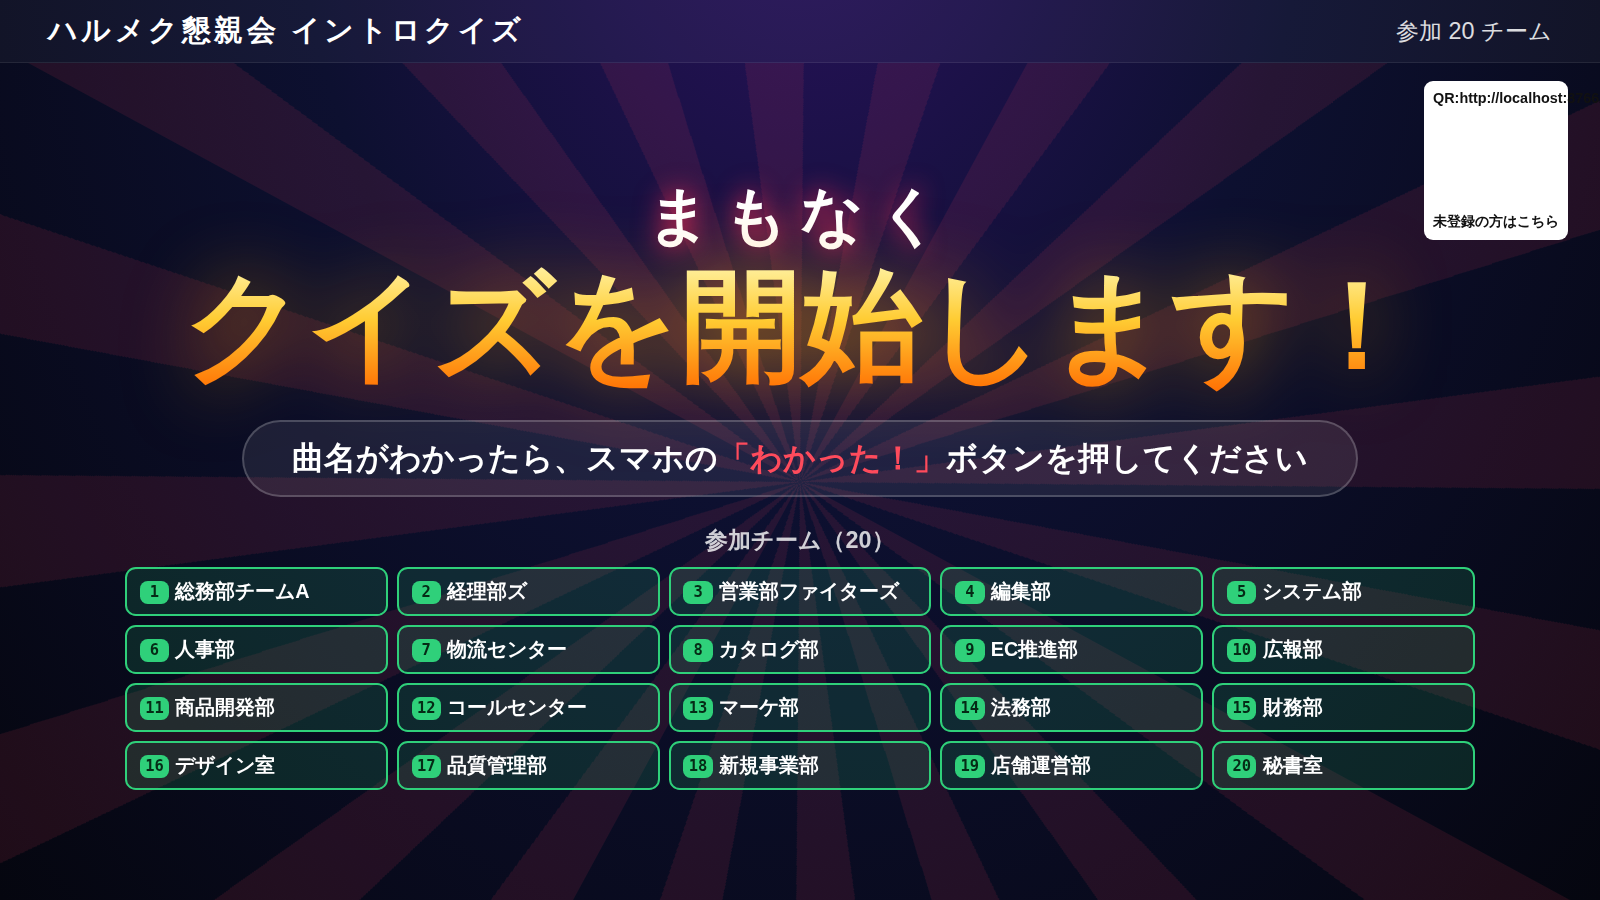
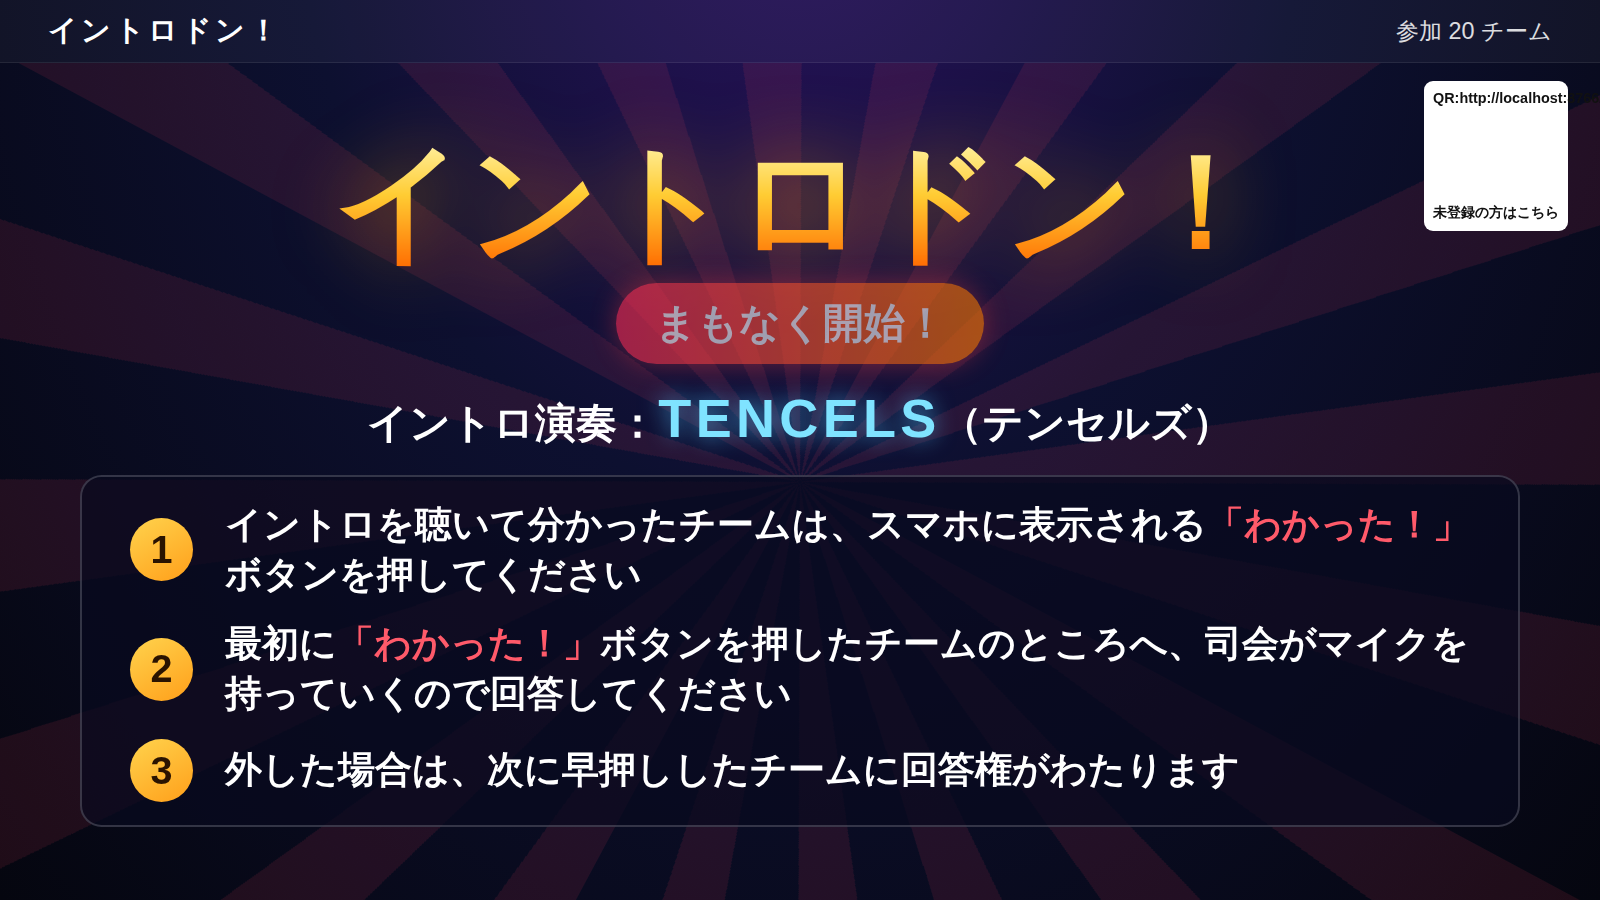
Add files via upload

diff --git a/screen.html b/screen.html
@@ -3,7 +3,7 @@
 <head>
 <meta charset="utf-8">
 <meta name="viewport" content="width=device-width, initial-scale=1">
-<title>イントロクイズ - スクリーン</title>
+<title>イントロドン！ - スクリーン</title>
 <script src="https://www.gstatic.com/firebasejs/10.7.1/firebase-app-compat.js"></script>
 <script src="https://www.gstatic.com/firebasejs/10.7.1/firebase-database-compat.js"></script>
 <script src="https://cdnjs.cloudflare.com/ajax/libs/qrcodejs/1.0.0/qrcode.min.js"></script>
@@ -43,42 +43,45 @@
 
   /* ===== 出題中 ===== */
   #live { flex: 1; display: flex; flex-direction: column; padding: 1.5vh 2.5vw 2vh; min-height: 0; position: relative; }
-  #hero { display: flex; align-items: center; gap: 2.5vw; height: 15vh; }
-  #roundNo { font-size: 11vh; font-weight: 900; line-height: 1; letter-spacing: .02em;
+  #hero { display: flex; align-items: center; gap: 2.5vw; height: 20vh; }
+  #roundNo { font-size: 17vh; font-weight: 900; line-height: 1; letter-spacing: .02em;
     background: linear-gradient(180deg, #fff6b0 0%, #ffcc33 45%, #ff7a00 100%); -webkit-background-clip: text; background-clip: text; color: transparent;
     filter: drop-shadow(0 0 2.2vh rgba(255,170,0,.55)); }
-  #badge { font-size: 3.2vh; font-weight: 900; padding: 1vh 2.2vw; border-radius: 99px; white-space: nowrap; }
+  #badge { font-size: 4.4vh; font-weight: 900; padding: 1.2vh 2.6vw; border-radius: 99px; white-space: nowrap; }
   #badge.open { background: linear-gradient(90deg, #ff2d55, #ff7a00); box-shadow: 0 0 3vh rgba(255,60,60,.6); animation: blink 1s infinite; }
   #badge.closed { background: #3c4366; }
   @keyframes blink { 50% { opacity: .55; } }
-  #timer { margin-left: auto; font-size: 9vh; font-weight: 900; font-variant-numeric: tabular-nums;
+  #timer { margin-left: auto; font-size: 13vh; font-weight: 900; font-variant-numeric: tabular-nums;
     font-family: "SF Mono", Menlo, Consolas, monospace; text-shadow: 0 0 2vh rgba(120,180,255,.5); }
-  #timer small { font-size: 4vh; margin-left: .4vw; opacity: .7; }
+  #timer small { font-size: 5vh; margin-left: .4vw; opacity: .7; }
 
-  #tiles { flex: 1; display: grid; grid-template-columns: repeat(5, 1fr); grid-auto-rows: 12.6vh; gap: 1.4vh;
+  #tiles { --f: 1; --f1: 1; flex: 1; display: grid; grid-template-columns: repeat(5, 1fr); grid-auto-rows: 12vh; gap: 1.4vh;
     align-content: start; margin-top: 1vh; }
   .tile { position: relative; border-radius: 1.6vh; padding: 3.6vh 1vw 1vh; display: flex; flex-direction: column; justify-content: center;
     background: linear-gradient(160deg, #1f2a5a, #141a3a); border: .25vh solid rgba(140,170,255,.25); overflow: hidden;
     animation: pop .5s cubic-bezier(.2,1.6,.4,1); }
-  .tile .rk { position: absolute; top: .7vh; left: .9vw; font-size: 2.4vh; font-weight: 900; opacity: .9; }
-  .tile .nm { font-size: 3.3vh; font-weight: 900; text-align: center; white-space: nowrap; overflow: hidden; text-overflow: ellipsis; }
-  .tile .tm { font-size: 2.8vh; font-weight: 800; text-align: center; font-family: "SF Mono", Menlo, Consolas, monospace; color: #9fd0ff; }
+  .tile .rk { position: absolute; top: .7vh; left: .9vw; font-size: calc(2.4vh * var(--f)); font-weight: 900; opacity: .9; }
+  .tile .nm { font-size: calc(3.3vh * var(--f)); font-weight: 900; text-align: center; white-space: nowrap; overflow: hidden; text-overflow: ellipsis; }
+  .tile .tm { font-size: calc(2.8vh * var(--f)); font-weight: 800; text-align: center; font-family: "SF Mono", Menlo, Consolas, monospace; color: #9fd0ff; }
   .tile.r1 { grid-column: span 2; grid-row: span 2; border: .5vh solid #ffe27a;
     background: linear-gradient(150deg, #ffd34d 0%, #ff9f1a 55%, #e25c00 100%); color: #2a1300;
     box-shadow: 0 0 4vh rgba(255,190,40,.7); animation: pop .6s cubic-bezier(.2,1.6,.4,1), glow 1.2s ease-in-out .6s infinite; }
-  .tile.r1 .rk { font-size: 5vh; top: 1.2vh; left: 1.4vw; }
-  .tile.r1 { padding-top: 7vh; }
-  .tile.r1 .nm { font-size: 7vh; }
-  .tile.r1 .tm { font-size: 5.5vh; color: #3a1800; }
-  .tile.r1 .mic { position: absolute; top: 1.4vh; right: 1.2vw; font-size: 2.6vh; font-weight: 900; background: #2a1300; color: #ffd34d;
+  .tile.r1 .rk { font-size: calc(5vh * var(--f1)); top: 1.2vh; left: 1.4vw; }
+  .tile.r1 { padding-top: calc(7vh * var(--f1)); }
+  .tile.r1 .nm { font-size: calc(7vh * var(--f1)); white-space: normal; line-height: 1.15; display: -webkit-box; -webkit-line-clamp: 2; -webkit-box-orient: vertical; }
+  .tile.r1 .tm { font-size: calc(5.5vh * var(--f1)); color: #3a1800; }
+  .tile.r1 .mic { position: absolute; top: 1.4vh; right: 1.2vw; font-size: calc(2.6vh * var(--f1)); font-weight: 900; background: #2a1300; color: #ffd34d;
     padding: .5vh 1.2vw; border-radius: 99px; }
   .tile.r2 { background: linear-gradient(150deg, #eef2f7, #9aa5b5); color: #1b2230; border-color: #fff; }
   .tile.r2 .tm, .tile.r3 .tm { color: inherit; }
   .tile.r3 { background: linear-gradient(150deg, #f0a46b, #a0522d); color: #2a1206; border-color: #ffc59a; }
   @keyframes pop { from { transform: scale(.4); opacity: 0; } to { transform: scale(1); opacity: 1; } }
   @keyframes glow { 50% { box-shadow: 0 0 7vh rgba(255,210,60,1); } }
-  #waitMsg { grid-column: 1 / -1; grid-row: span 4; display: flex; align-items: center; justify-content: center; text-align: center;
-    font-size: 6vh; font-weight: 900; line-height: 1.5; animation: breathe 1.6s ease-in-out infinite; }
+  #tiles.m1 { grid-template-columns: repeat(4, 1fr); grid-auto-rows: 28vh; --f: 1.6; --f1: 1.2; }
+  #tiles.m2 { grid-auto-rows: 17vh; --f: 1.2; --f1: 1.05; }
+  #tiles.m1 .tile .nm { white-space: normal; line-height: 1.15; display: -webkit-box; -webkit-line-clamp: 2; -webkit-box-orient: vertical; }
+  #waitMsg { grid-column: 1 / -1; grid-row: span 2; min-height: 55vh; display: flex; align-items: center; justify-content: center; text-align: center;
+    font-size: 9vh; font-weight: 900; line-height: 1.4; animation: breathe 1.6s ease-in-out infinite; }
   #waitMsg em { font-style: normal; color: #ff4b5c; }
   @keyframes breathe { 50% { opacity: .45; transform: scale(.97); } }
 
@@ -102,24 +105,28 @@
   @keyframes zoomIn { from { transform: scale(3); opacity: 0; } to { transform: scale(1); opacity: 1; } }
   @keyframes fadeOut { to { opacity: 0; } }
 
-  /* ===== まもなく開始 ===== */
-  #ready { flex: 1; position: relative; display: flex; flex-direction: column; align-items: center; justify-content: center; overflow: hidden; padding: 2vh 4vw; }
+  /* ===== ルール説明（まもなく開始） ===== */
+  #ready { flex: 1; position: relative; display: flex; flex-direction: column; align-items: center; justify-content: center; overflow: hidden; padding: 2vh 5vw; gap: 2.6vh; }
   #ready::before { content: ""; position: absolute; width: 250vmax; height: 250vmax; left: 50%; top: 50%; margin: -125vmax 0 0 -125vmax;
     background: repeating-conic-gradient(rgba(255,60,90,.10) 0 8deg, transparent 8deg 18deg); animation: spin 20s linear infinite; }
   #ready > * { position: relative; }
-  #ready .r1 { font-size: 7vh; font-weight: 900; letter-spacing: .2em; color: #fff; text-shadow: 0 0 3vh #ff2d55; animation: zoomIn .7s cubic-bezier(.2,1.8,.4,1) both; }
-  #ready .r2 { font-size: 13vh; font-weight: 900; line-height: 1.15; text-align: center;
+  #ready .rtop { display: flex; flex-direction: column; align-items: center; gap: 1.6vh; }
+  #ready .rlogo { font-size: 14vh; font-weight: 900; line-height: 1.05; white-space: nowrap;
     background: linear-gradient(180deg, #fff6b0, #ffcc33 45%, #ff6a00); -webkit-background-clip: text; background-clip: text; color: transparent;
-    filter: drop-shadow(0 0 4vh rgba(255,160,0,.7)); animation: zoomIn .7s cubic-bezier(.2,1.8,.4,1) .2s both, beat 1.4s ease-in-out 1s infinite; }
+    filter: drop-shadow(0 0 4vh rgba(255,160,0,.7)); animation: zoomIn .7s cubic-bezier(.2,1.8,.4,1) both, beat 1.4s ease-in-out 1s infinite; }
   @keyframes beat { 50% { transform: scale(1.04); } }
-  #ready .rule { margin-top: 3vh; font-size: 3.6vh; font-weight: 800; padding: 1.6vh 3vw; border-radius: 99px; background: rgba(255,255,255,.08); border: .3vh solid rgba(255,255,255,.2); }
-  #ready .rule em { font-style: normal; color: #ff4b5c; }
-  #ready .rteams { margin-top: 3vh; width: 100%; max-width: 150vh; }
-  #ready .rteams h3 { margin: 0 0 1.2vh; font-size: 2.6vh; text-align: center; opacity: .8; font-weight: 700; }
-  #readyChips { display: grid; grid-template-columns: repeat(5, 1fr); gap: 1vh; }
-  #readyChips .chip { font-size: 2.2vh; padding: 1vh .8vw; animation: none; }
+  #ready .rchip { font-size: 4.6vh; font-weight: 900; padding: 1.4vh 2.4vw; border-radius: 99px; white-space: nowrap;
+    background: linear-gradient(90deg, #ff2d55, #ff7a00); box-shadow: 0 0 3vh rgba(255,60,60,.6); animation: blink 1.2s infinite; }
+  #ready .rband { font-size: 4.6vh; font-weight: 800; }
+  #ready .rband b { font-size: 6vh; color: #7fe3ff; letter-spacing: .08em; text-shadow: 0 0 2.5vh rgba(80,200,255,.7); }
+  #ready .rules { list-style: none; margin: 0; padding: 2.6vh 3vw; display: flex; flex-direction: column; gap: 2.2vh; width: 100%; max-width: 165vh;
+    background: rgba(8,10,30,.72); border: .3vh solid rgba(255,255,255,.18); border-radius: 2.4vh; }
+  #ready .rules li { display: flex; align-items: center; gap: 2vw; font-size: 4.1vh; font-weight: 800; line-height: 1.35; }
+  #ready .rules .rn { flex: none; width: 7vh; height: 7vh; border-radius: 50%; display: flex; align-items: center; justify-content: center;
+    font-size: 4.4vh; font-weight: 900; color: #2a1300; background: linear-gradient(150deg, #ffd34d, #ff9f1a); }
+  #ready .rules em { font-style: normal; color: #ff5a6a; }
   #readyQr { position: absolute; right: 2vw; top: 2vh; background: #fff; color: #111; padding: 1vh; border-radius: 1vh; text-align: center; font-size: 1.6vh; font-weight: 800; }
-  #readyQr div { width: 13vh; height: 13vh; margin-bottom: .6vh; }
+  #readyQr div { width: 12vh; height: 12vh; margin-bottom: .6vh; }
   #readyQr img, #readyQr canvas { width: 100% !important; height: 100% !important; }
 
   /* ===== 終了画面 ===== */
@@ -143,7 +150,7 @@
 </head>
 <body>
   <header>
-    <div id="title">イントロクイズ</div>
+    <div id="title">イントロドン！</div>
     <div id="joinInfo"></div>
   </header>
 
@@ -170,10 +177,13 @@
   </section>
 
   <section id="ready" hidden>
-    <div class="r1">まもなく</div>
-    <div class="r2" id="readyMain">クイズを開始します！</div>
-    <div class="rule">曲名がわかったら、スマホの<em>「わかった！」</em>ボタンを押してください</div>
-    <div class="rteams"><h3 id="readyTeamsTitle">参加チーム</h3><div id="readyChips"></div></div>
+    <div class="rtop"><div class="rlogo">イントロドン！</div><div class="rchip" id="readyChip">まもなく開始！</div></div>
+    <div class="rband">イントロ演奏：<b>TENCELS</b>（テンセルズ）</div>
+    <ol class="rules">
+      <li><span class="rn">1</span><div>イントロを聴いて分かったチームは、スマホに表示される<em>「わかった！」</em>ボタンを押してください</div></li>
+      <li><span class="rn">2</span><div>最初に<em>「わかった！」</em>ボタンを押したチームのところへ、司会がマイクを持っていくので回答してください</div></li>
+      <li><span class="rn">3</span><div>外した場合は、次に早押ししたチームに回答権がわたります</div></li>
+    </ol>
     <div id="readyQr"><div id="qrReady"></div>未登録の方はこちら</div>
   </section>
 
@@ -190,7 +200,7 @@
 
 <script>
 /* =========================================================
- * イントロクイズ 共通設定（Firebase Realtime Database）
+ * イントロドン！ 共通設定（Firebase Realtime Database）
  *
  * Firebase プロジェクト: intro-quiz-bf88f（設定済み）
  * Firebase コンソール →（歯車）プロジェクトの設定 → マイアプリ →
@@ -209,7 +219,7 @@ const FIREBASE_CONFIG = {
 /* ▲▲▲ ここまで ▲▲▲ */
 
 const TEAM_COUNT = 20;
-const DEFAULT_TITLE = 'イントロクイズ大会';
+const DEFAULT_TITLE = 'イントロドン！';
 
 if (!/^https:\/\//.test(FIREBASE_CONFIG.databaseURL || '')) {
   document.addEventListener('DOMContentLoaded', function () {
@@ -367,11 +377,7 @@ function baseUrl() {
     finishShown = false; $('finish').hidden = true;
     if (s.status === 'ready') {
       $('idle').hidden = true; $('live').hidden = true; $('ready').hidden = false;
-      $('readyMain').textContent = s.roundNo === 0 ? 'クイズを開始します！' : '第' + (s.roundNo + 1) + '問を開始します！';
-      $('readyTeamsTitle').textContent = '参加チーム（' + joinedTeams.length + '）';
-      $('readyChips').innerHTML = joinedTeams.map(function (t) {
-        return '<div class="chip"><span class="no">' + t.id + '</span>' + esc(t.name) + '</div>';
-      }).join('');
+      $('readyChip').textContent = s.roundNo === 0 ? 'まもなく開始！' : 'まもなく第' + (s.roundNo + 1) + '問！';
       if (!readyShown) { readyShown = true; fanfare(); }
       return;
     }
@@ -386,6 +392,7 @@ function baseUrl() {
         $('teamChips').innerHTML = joinedTeams.length ? joinedTeams.map(function (t) {
           return '<div class="chip"><span class="no">' + t.id + '</span>' + esc(t.name) + '</div>';
         }).join('') : '<div class="noteam">まだ参加チームはありません</div>';
+        fitNames();
       }
       lastBuzzCount = 0;
       return;
@@ -410,11 +417,13 @@ function baseUrl() {
     tilesSig = sig;
 
     if (!ranking.length) {
+      $('tiles').className = '';
       $('tiles').innerHTML = '<div id="waitMsg">' + (s.status === 'open'
         ? '曲名がわかったら<br><em>「わかった！」</em>ボタン！' : '回答なし') + '</div>';
       return;
     }
     // 既存タイルは再アニメーションさせず、新しく増えたタイルだけポップさせる
+    $('tiles').className = ranking.length <= 5 ? 'm1' : ranking.length <= 10 ? 'm2' : '';
     const old = {};
     $('tiles').querySelectorAll('.tile').forEach(function (el) { old[el.dataset.key] = true; });
     $('tiles').innerHTML = ranking.map(function (b, i) {
@@ -426,7 +435,20 @@ function baseUrl() {
         '<div class="nm"><span class="no">' + b.teamId + '</span>' + esc(b.name) + '</div>' +
         '<div class="tm">' + sec(b.ms) + '秒</div></div>';
     }).join('');
+    fitNames();
   }
+
+  /* 長いチーム名は1行に収まるよう文字を自動で小さくする */
+  function fitNames() {
+    document.querySelectorAll('#tiles .tile .nm, #teamChips .chip, #readyChips .chip').forEach(function (el) {
+      if (getComputedStyle(el).whiteSpace !== 'nowrap') return;
+      el.style.fontSize = '';
+      const base = parseFloat(getComputedStyle(el).fontSize);
+      let size = base;
+      while (el.scrollWidth > el.clientWidth + 1 && size > base * 0.55) { size -= base * 0.05; el.style.fontSize = size + 'px'; }
+    });
+  }
+  window.addEventListener('resize', fitNames);
 
   function tick() {
     if (state.status !== 'idle' && state.startAt) {

diff --git a/admin.html b/admin.html
@@ -3,7 +3,7 @@
 <head>
 <meta charset="utf-8">
 <meta name="viewport" content="width=device-width, initial-scale=1">
-<title>イントロクイズ - 管理画面</title>
+<title>イントロドン！ - 管理画面</title>
 <script src="https://www.gstatic.com/firebasejs/10.7.1/firebase-app-compat.js"></script>
 <script src="https://www.gstatic.com/firebasejs/10.7.1/firebase-database-compat.js"></script>
 <style>
@@ -58,7 +58,7 @@
 </head>
 <body>
   <header>
-    <h1>イントロクイズ 管理画面</h1>
+    <h1>イントロドン！ 管理画面</h1>
     <span class="sp"></span>
     <span id="conn" hidden>再接続中…</span>
     <span id="joinedHead"></span>
@@ -81,7 +81,7 @@
       </div>
       <div class="subRow">
         <button id="btnIdle">待機画面（QR・参加状況）へ</button>
-        <button id="btnReady" class="ready">「まもなく開始」を表示</button>
+        <button id="btnReady" class="ready">ルール説明（まもなく開始）を表示</button>
         <button id="btnCancel" class="danger">この問題をやり直し</button>
         <button id="btnFinish" class="finish">クイズ終了</button>
         <button id="btnPrev">◀ 前の問題に戻る</button>
@@ -151,7 +151,7 @@
 
 <script>
 /* =========================================================
- * イントロクイズ 共通設定（Firebase Realtime Database）
+ * イントロドン！ 共通設定（Firebase Realtime Database）
  *
  * Firebase プロジェクト: intro-quiz-bf88f（設定済み）
  * Firebase コンソール →（歯車）プロジェクトの設定 → マイアプリ →
@@ -170,7 +170,7 @@ const FIREBASE_CONFIG = {
 /* ▲▲▲ ここまで ▲▲▲ */
 
 const TEAM_COUNT = 20;
-const DEFAULT_TITLE = 'イントロクイズ大会';
+const DEFAULT_TITLE = 'イントロドン！';
 
 if (!/^https:\/\//.test(FIREBASE_CONFIG.databaseURL || '')) {
   document.addEventListener('DOMContentLoaded', function () {
@@ -305,7 +305,7 @@ function baseUrl() {
     $('joinedHead').textContent = '参加 ' + joined + ' / ' + teams.length;
     $('stRound').textContent = s.roundNo ? '第' + s.roundNo + '問' : '開始前';
     $('stBadge').className = s.status;
-    $('stBadge').textContent = { idle: '待機', open: '受付中', closed: '受付終了', finished: 'クイズ終了', ready: 'まもなく開始' }[s.status] || s.status;
+    $('stBadge').textContent = { idle: '待機', open: '受付中', closed: '受付終了', finished: 'クイズ終了', ready: 'ルール説明中' }[s.status] || s.status;
     $('btnStart').disabled = s.status === 'open';
     $('btnStop').disabled = s.status !== 'open';
     $('btnStart').textContent = '▶ 第' + (s.status === 'open' ? s.roundNo : s.roundNo + 1) + '問 スタート（演奏開始）';

diff --git a/index.html b/index.html
@@ -3,7 +3,7 @@
 <head>
 <meta charset="utf-8">
 <meta name="viewport" content="width=device-width, initial-scale=1, maximum-scale=1, user-scalable=no">
-<title>イントロクイズ - 回答</title>
+<title>イントロドン！ - 回答</title>
 <script src="https://www.gstatic.com/firebasejs/10.7.1/firebase-app-compat.js"></script>
 <script src="https://www.gstatic.com/firebasejs/10.7.1/firebase-database-compat.js"></script>
 <style>
@@ -47,7 +47,7 @@
 </head>
 <body>
   <header>
-    <span id="title">イントロクイズ</span>
+    <span id="title">イントロドン！</span>
     <span id="conn" hidden>再接続中…</span>
     <span id="teamLabel"></span>
   </header>
@@ -73,7 +73,7 @@
 
 <script>
 /* =========================================================
- * イントロクイズ 共通設定（Firebase Realtime Database）
+ * イントロドン！ 共通設定（Firebase Realtime Database）
  *
  * Firebase プロジェクト: intro-quiz-bf88f（設定済み）
  * Firebase コンソール →（歯車）プロジェクトの設定 → マイアプリ →
@@ -92,7 +92,7 @@ const FIREBASE_CONFIG = {
 /* ▲▲▲ ここまで ▲▲▲ */
 
 const TEAM_COUNT = 20;
-const DEFAULT_TITLE = 'イントロクイズ大会';
+const DEFAULT_TITLE = 'イントロドン！';
 
 if (!/^https:\/\//.test(FIREBASE_CONFIG.databaseURL || '')) {
   document.addEventListener('DOMContentLoaded', function () {
@@ -238,7 +238,7 @@ function baseUrl() {
       else { btn.textContent = '終了'; msg = '受付終了<br><small>次の問題をお待ちください</small>'; }
       if (state.reveal) msg += '<br><small>正解：' + esc(state.reveal) + '</small>';
     } else if (state.status === 'ready') {
-      btn.textContent = 'まもなく'; msg = 'まもなくクイズが始まります！<br><small>演奏が始まるとボタンが赤くなります</small>';
+      btn.textContent = 'まもなく'; msg = 'まもなくイントロドン！が始まります！<br><small>演奏が始まるとボタンが赤くなります。<br>イントロでわかったら「わかった！」を押してください</small>';
     } else if (state.status === 'finished') {
       btn.textContent = '終了'; msg = 'クイズは終了しました<br><small>ご参加ありがとうございました！</small>';
     } else {
